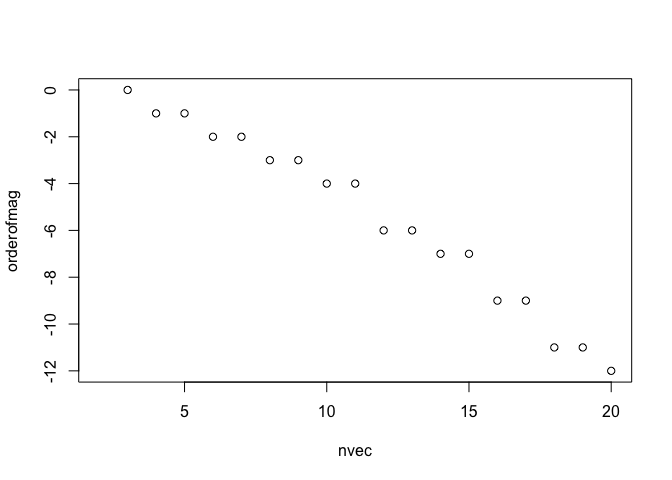
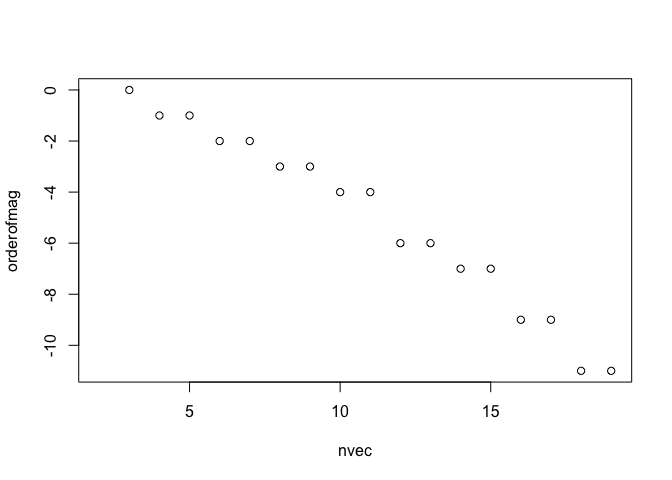
Editsd to course book

diff --git a/coursebook/coursebook.md b/coursebook/coursebook.md
@@ -2027,7 +2027,7 @@ Not bad for just 5 points. Let’s examine how the error changes as a
 function of $n$.
 
 ``` r
-nvec <- 2:20
+nvec <- 2:19
 errorvec <- NULL
 for (n in nvec){
   errorvec <- c(errorvec, interperror(n))
